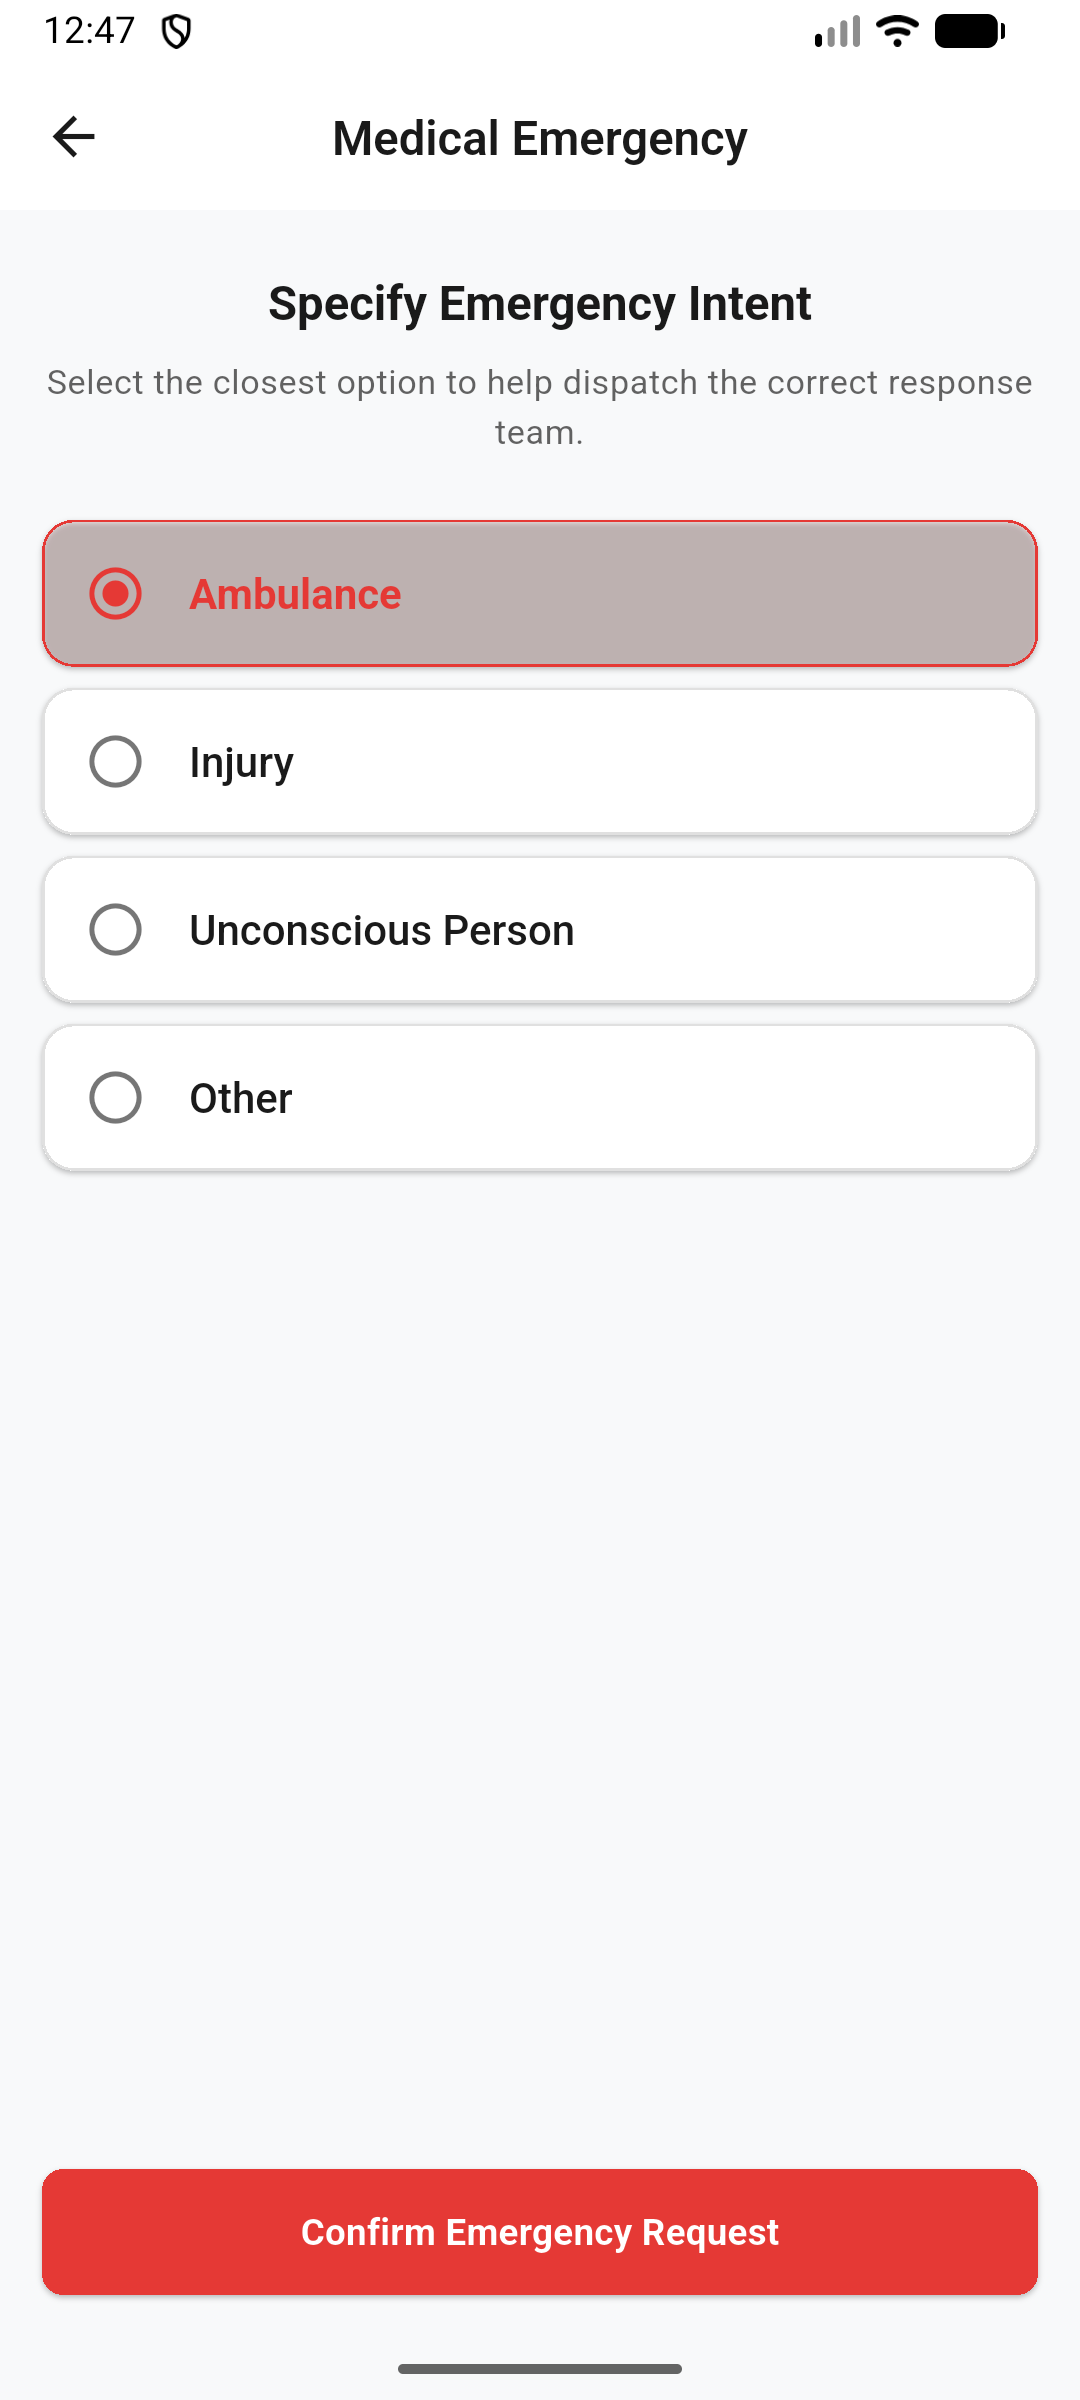
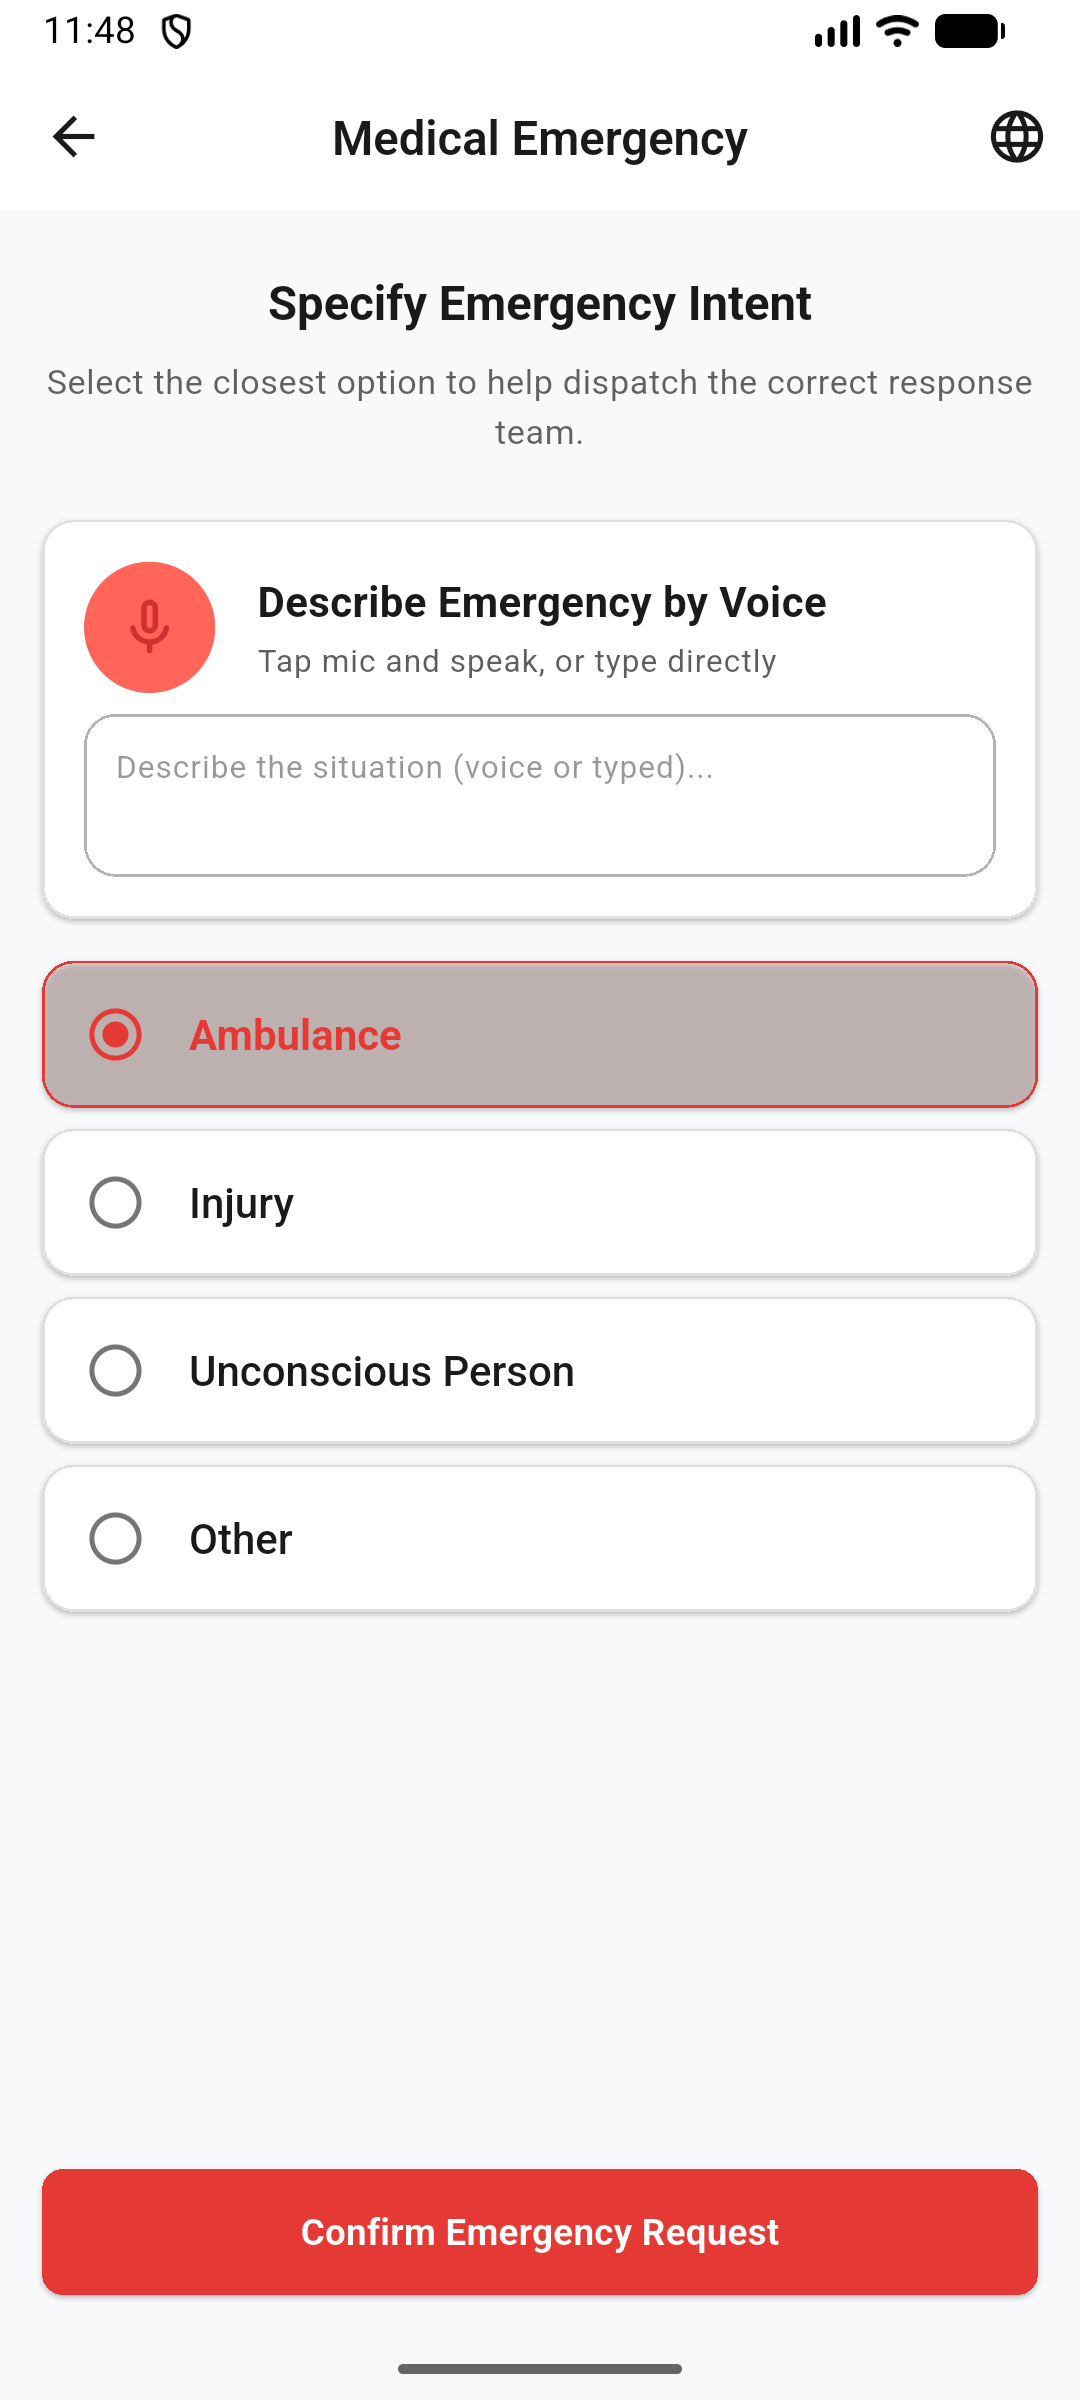
Update application screenshots and README

diff --git a/lib/features/responder/presentation/screens/responder_dashboard_screen.dart b/lib/features/responder/presentation/screens/responder_dashboard_screen.dart
@@ -413,6 +413,7 @@ class _ResponderDashboardScreenState extends State<ResponderDashboardScreen> {
 
     return Scaffold(
       appBar: AppBar(
+        titleSpacing: 0,
         leading: IconButton(
           icon: const Icon(Icons.arrow_back),
           tooltip: l10n.returnToCitizenHome,
@@ -421,13 +422,13 @@ class _ResponderDashboardScreenState extends State<ResponderDashboardScreen> {
         title: Row(
           mainAxisSize: MainAxisSize.min,
           children: [
-            const Icon(Icons.badge, color: AppColors.primary),
-            const SizedBox(width: AppDimensions.spaceSm),
+            const Icon(Icons.badge, color: AppColors.primary, size: 20),
+            const SizedBox(width: 6),
             Text(
               l10n.responderDashboard,
               style: theme.textTheme.headlineMedium?.copyWith(
                 fontWeight: FontWeight.w800,
-                fontSize: 18,
+                fontSize: 16,
               ),
             ),
           ],

diff --git a/README.md b/README.md
@@ -8,6 +8,8 @@
 
 ### 🛡 Citizen Emergency Experience
 - **Immediate SOS Trigger**: One-tap emergency broadcast with automated GPS coordinate capture.
+- **Voice Emergency Input**: Hands-free voice reporting via on-device speech-to-text on the Emergency Intent screen (`VoiceEmergencyInputCard`), enabling citizens to speak distress details naturally with real-time feedback, editable text fallback, and explicit dispatch confirmation.
+- **Multilingual Localization**: Complete application-wide localization supporting **English**, **हिन्दी (Hindi)**, and **मराठी (Marathi)** with persistent language preferences via `SharedPreferences`, instant reactive language switching across all screens without app restart, and automatic speech recognition locale resolution (`en_IN`, `hi_IN`, `mr_IN`).
 - **Pillar-Based Triage Flow**: Specialized subcategory intent selection across 4 core pillars:
   - 🚑 **Medical Emergency** (Trauma care, Cardiac arrest, Ambulance request)
   - ♀ **Women's Safety** (Harassment, SOS alert, Rapid escort)
@@ -17,8 +19,9 @@
 - **Interactive OpenStreetMap**: Visual location map (`flutter_map`) displaying captured incident coordinates and active responder pin.
 - **Incident Cancellation**: Citizen-initiated cancellation with reason confirmation.
 
-### 🚓 Emergency Responder System
+### 🚓 Emergency Responder System & AI Intelligence
 - **Responder Dashboard**: Real-time active incident feed for emergency response units (`/responder-dashboard`).
+- **AI Incident Intelligence**: Contextual clinical and tactical intelligence advisory for every incident, highlighting prioritized hazard tags, recommended responder operational guidance, missing arrival checks, and engine confidence metrics.
 - **One-Tap Status Lifecycle Management**: Responders can accept dispatches, initiate active response, and mark incidents resolved.
 - **Responder GPS Context**: Displays current responder device location alongside citizen emergency coordinates.
 
@@ -36,18 +39,19 @@ pukaar/
 │   ├── core/
 │   │   ├── config/             # AppConfig, environment & API endpoints
 │   │   ├── constants/          # AppColors, AppDimensions, AppStrings
+│   │   ├── localization/       # AppLocalizations, LanguageSelectionDialog, LocalizationService
 │   │   ├── models/             # EmergencyIncident, EmergencyCategory, EmergencyStatus
 │   │   ├── repositories/       # EmergencyRepository (API & Mock implementations)
 │   │   ├── routing/            # AppRouter & AppRoutes
-│   │   ├── services/           # ServiceLocator, ApiService, LocationService, AuthService
-│   │   └── widgets/            # EmergencyMap (flutter_map / OpenStreetMap integration)
+│   │   ├── services/           # ServiceLocator, ApiService, LocationService, AuthService, SpeechService
+│   │   └── widgets/            # EmergencyMap (flutter_map / OpenStreetMap integration), LanguageSwitcherButton
 │   ├── features/
 │   │   ├── auth/               # Login & Registration screens
-│   │   ├── emergency/          # Intent Triage & Citizen Emergency Tracking screens
+│   │   ├── emergency/          # Intent Triage, Voice Emergency Input & Citizen Tracking screens
 │   │   ├── home/               # Home dashboard & SOS trigger
 │   │   ├── onboarding/         # Splash & Onboarding screens
 │   │   ├── profile/            # Citizen Profile, Medical ID & Emergency Contacts
-│   │   └── responder/          # Responder Dashboard screen
+│   │   └── responder/          # Responder Dashboard & AI Incident Intelligence card
 │   └── shared/                 # Reusable UI cards, buttons & state widgets
 ├── backend/                    # Python FastAPI Backend Service
 │   ├── app/                    # FastAPI routes, models & store
@@ -80,7 +84,7 @@ flutter pub get
 # Run static analysis
 flutter analyze
 
-# Run Flutter test suite (49 passing tests)
+# Run Flutter test suite (112 passing tests)
 flutter test
 
 # Launch mobile application on Android Emulator
@@ -107,7 +111,7 @@ source venv/bin/activate
 # Install backend dependencies
 pip install -r requirements.txt
 
-# Run pytest backend test suite (11 passing tests)
+# Run pytest backend test suite (60 passing tests)
 python -m pytest tests
 
 # Start local FastAPI server
@@ -130,12 +134,12 @@ void main() {
 ### Citizen App & Onboarding
 <table>
 <tr>
-<td align="center"><b>Four Core Safety Pillars</b></td>
-<td align="center"><b>Authentication & Role Access</b></td>
+<td align="center"><b>Multilingual Onboarding Selection</b></td>
+<td align="center"><b>Authentication & Quick Dev Login</b></td>
 <td align="center"><b>Citizen Home Dashboard</b></td>
 </tr>
 <tr>
-<td><img src="screenshots/01-onboarding.png" width="250" alt="Onboarding Safety Pillars"></td>
+<td><img src="screenshots/01-onboarding.png" width="250" alt="Multilingual Onboarding Selection"></td>
 <td><img src="screenshots/02-login.png" width="250" alt="Sign In and Quick Dev Login"></td>
 <td><img src="screenshots/03-citizen-home.png" width="250" alt="Citizen Home Screen"></td>
 </tr>
@@ -145,12 +149,12 @@ void main() {
 <table>
 <tr>
 <td align="center"><b>Active SOS Broadcast</b></td>
-<td align="center"><b>Intent Triage Selection</b></td>
+<td align="center"><b>Voice Input & Intent Triage</b></td>
 <td align="center"><b>Live OpenStreetMap Tracking</b></td>
 </tr>
 <tr>
 <td><img src="screenshots/04-emergency-sos-active.png" width="250" alt="Active SOS Broadcast"></td>
-<td><img src="screenshots/05-emergency-intent.png" width="250" alt="Emergency Intent Selection"></td>
+<td><img src="screenshots/05-emergency-intent.png" width="250" alt="Voice Input and Emergency Intent Selection"></td>
 <td><img src="screenshots/06-emergency-tracking.png" width="250" alt="Emergency Live Tracking"></td>
 </tr>
 </table>
@@ -173,7 +177,7 @@ void main() {
 
 ## 🧪 Testing Summary
 
-- **Flutter Unit & Widget Tests**: `85 / 85 Passed` (`flutter test`)
+- **Flutter Unit & Widget Tests**: `112 / 112 Passed` (`flutter test`)
 - **FastAPI Pytest Backend Suite**: `60 / 60 Passed` (`python -m pytest backend/tests`)
 - **Flutter Code Analysis**: `0 Issues / Clean` (`flutter analyze`)
 
@@ -182,3 +186,4 @@ void main() {
 ## 📄 License
 
 This project is licensed under the MIT License — see the LICENSE file for details.
+
